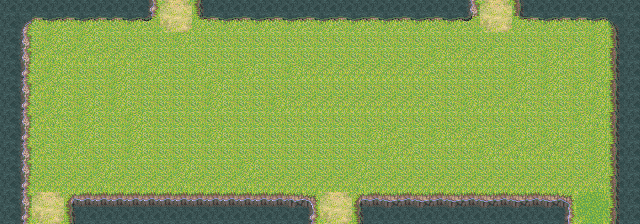
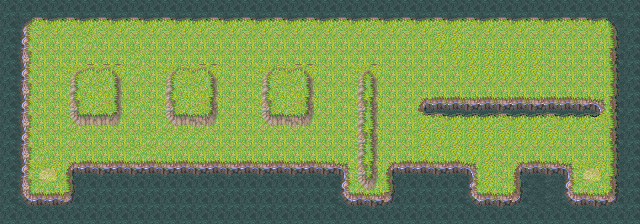
Elf game pixel perfect col. detection
FINALLY !

diff --git a/js/elf-vs-dwarf-game/elfGame.js b/js/elf-vs-dwarf-game/elfGame.js
@@ -97,13 +97,13 @@ RadoGame = Game.extend({
 		this.levels.push(this.createLevel(
 				1,
 				'source/elf game/level1.png',
-				[[0, 0, 0, 0, 0, 1, 0, 0, 0, 0, 0, 0, 0, 0, 0, 1, 0, 0, 0, 0],		// 0 - impassable,
+				[[0, 0, 0, 0, 0, 0, 0, 0, 0, 0, 0, 0, 0, 0, 0, 0, 0, 0, 0, 0],		// 0 - impassable,
                  [0, 1, 1, 1, 1, 1, 1, 1, 1, 1, 1, 1, 1, 1, 1, 1, 1, 1, 1, 0],		// 1 - passable,
-                 [0, 1, 1, 1, 1, 1, 1, 1, 1, 1, 1, 1, 1, 1, 1, 1, 1, 1, 1, 0],		// 2 - finish,
-                 [0, 1, 1, 1, 1, 1, 1, 1, 1, 1, 1, 1, 1, 1, 1, 1, 1, 1, 1, 0],		// 3 - starting 
-                 [0, 1, 1, 1, 1, 1, 1, 1, 1, 1, 1, 1, 1, 1, 1, 1, 1, 1, 1, 0],
-                 [0, 1, 1, 1, 1, 1, 1, 1, 1, 1, 1, 1, 1, 1, 1, 1, 1, 1, 1, 0],
-                 [0, 3, 0, 0, 0, 0, 0, 0, 0, 0, 1, 0, 0, 0, 0, 0, 0, 0, 2, 0]]
+                 [0, 1, 0, 0, 1, 0, 0, 1, 0, 0, 1, 0, 1, 1, 1, 1, 1, 1, 1, 0],		// 2 - finish,
+                 [0, 1, 0, 0, 1, 0, 0, 1, 0, 0, 1, 0, 1, 0, 0, 0, 0, 0, 0, 0],		// 3 - starting 
+                 [0, 1, 1, 1, 1, 1, 1, 1, 1, 1, 1, 0, 1, 1, 1, 1, 1, 1, 1, 0],
+                 [0, 3, 0, 0, 0, 0, 0, 0, 0, 0, 0, 0, 0, 0, 0, 1, 0, 0, 1, 0],
+                 [0, 0, 0, 0, 0, 0, 0, 0, 0, 0, 0, 0, 0, 0, 0, 0, 0, 0, 0, 0]]
 				)
 		);
 		
@@ -214,7 +214,7 @@ RadoGame = Game.extend({
 		
 		this.gameContext.drawImage(this.currentLevel.image, 0, 0);
 		
-/*		for(var i = 0; i < this.passableBlocks.length; i++){
+		for(var i = 0; i < this.passableBlocks.length; i++){
 			var temp = this.passableBlocks[i];
 			
 			if (temp.isActive){
@@ -230,12 +230,13 @@ RadoGame = Game.extend({
 		for(var j = 0; j < this.impassableBlocks.length; j++){
 			var temp = this.impassableBlocks[j];
 			this.gameContext.fillRect(temp.x, temp.y, temp.width, temp.height);
-		}*/
+		}
 		for(var k = 0; k < this.finishBlocks.length; k++){
 			var temp = this.finishBlocks[k];
 			this.gameContext.fillStyle = 'rgba(89, 49, 143, 0.3)';
 			this.gameContext.fillRect(temp.x, temp.y, temp.width, temp.height);
 		}
+		
 	},
 	
 	// ====== MAIN CHARACTER CONSTRUCTOR ===== //
@@ -255,7 +256,7 @@ RadoGame = Game.extend({
 		};
 		
 		this.mainCharacterBoundingRect = {
-				x: this.mainCharacter.x + 4,
+				x: this.mainCharacter.x + 6,
 				y: this.mainCharacter.y + 28,
 				width: 20,
 				height: 8
@@ -333,25 +334,27 @@ RadoGame = Game.extend({
 			
 			// ----- linear collision detection ----- //
 			
-			if(right && right.type == 0){
-				if(charBox.x + charBox.width > temp.x + temp.width){
-					collision.right = true;
+			if(len != 3){
+				if(right && right.type == 0){
+					if(charBox.x + charBox.width > temp.x + temp.width){
+						collision.right = true;
+					}
 				}
-			}
-			if(lower && lower.type == 0){
-				if(charBox.y + charBox.height > temp.y + temp.height){
-					collision.bottom = true;		
+				if(lower && lower.type == 0){
+					if(charBox.y + charBox.height > temp.y + temp.height){
+						collision.bottom = true;		
+					}
 				}
-			}
-			if(left && left.type == 0){
-				if(charBox.x < temp.x){
-					collision.left = true;
+				if(left && left.type == 0){
+					if(charBox.x < temp.x){
+						collision.left = true;
+					}
 				}
-			}
-			if(upper && upper.type == 0){
-				if(charBox.y < temp.y){
-					collision.top = true;
-				}
+				if(upper && upper.type == 0){
+					if(charBox.y < temp.y){
+						collision.top = true;
+					}
+				}				
 			}
 			
 			// ==== diagonal collision detection ==== //
@@ -367,15 +370,20 @@ RadoGame = Game.extend({
 							charBox.y += offsetY;
 							break;
 						}
-						if(offsetY > offsetX){
+						else if(offsetY > offsetX){
 							char.x += offsetX;
 							charBox.x += offsetX;
 							break;
 						}
-						if(offsetY == offsetX){
-							char.x += offsetX;
-							charBox.x += offsetX;
-							break;
+						else if(offsetY == offsetX){
+							if(char.moveLeft == true){
+								char.y += offsetY;
+								charBox.y += offsetY;
+							}
+							else if(char.moveUp == true){
+								char.x += offsetX;
+								charBox.x += offsetX;
+							}
 						}
 					}
 				}         
@@ -388,19 +396,24 @@ RadoGame = Game.extend({
 						offsetY = (upperRight.y + upperRight.height) - charBox.y;
 						
 						if(offsetX > offsetY){
-							char.y += offsetY + char.speed;
-							charBox.y += offsetY + char.speed;
+							char.y += offsetY;
+							charBox.y += offsetY;
 							break;
 						}
-						if(offsetY > offsetX){
+						else if(offsetY > offsetX){
 							char.x -= offsetX;
 							charBox.x -= offsetX;
 							break;
 						}
-						if(offsetY == offsetX){
-							char.y -= offsetY;
-							charBox.y -= offsetY;
-							break;
+						else if(offsetY == offsetX){
+							if(char.moveRight == true){
+								char.y += offsetY;
+								charBox.y += offsetY;
+							}
+							else if(char.moveUp == true){
+								char.x -= offsetX;
+								charBox.x -= offsetX;
+							}
 						}
 					}
 				}
@@ -411,22 +424,26 @@ RadoGame = Game.extend({
 					if(len == 3){
 						offsetX = (lowerLeft.x + lowerLeft.width) - charBox.x;
 						offsetY = (charBox.y + charBox.height) - lowerLeft.y;
-						
-						console.log("X: " + offsetX + " Y: " + offsetY);						
+												
 						if(offsetX > offsetY){
 							char.y -= offsetY;
 							charBox.y -= offsetY;
 							break;
 						}
 						if(offsetY > offsetX){
-							char.x += offsetX + char.speed;
-							charBox.x += offsetX + char.speed;
+							char.x += offsetX;
+							charBox.x += offsetX;
 							break;
 						}
 						if(offsetX == offsetY){
-							char.x += offsetX + char.speed;
-							charBox.x += offsetX + char.speed;
-							break;
+							if(char.moveLeft == true){
+								char.y -= offsetY;
+								charBox.y -= offsetY;
+							}
+							else if(char.moveDown == true){
+								char.x += offsetX;
+								charBox.x += offsetX;
+							}
 						}
 					}
 				}
@@ -444,14 +461,19 @@ RadoGame = Game.extend({
 							break;
 						}
 						if(offsetY > offsetX){
-							char.x -= offsetX + char.speed;
-							charBox.x -= offsetX + char.speed;
+							char.x -= offsetX;
+							charBox.x -= offsetX;
 							break;
 						}
 						if(offsetX == offsetY){
-							char.x -= offsetX + char.speed;
-							charBox.x -= offsetX + char.speed;
-							break;
+							if(char.moveRight == true){
+								char.y -= offsetY;
+								charBox.y -= offsetY;
+							}
+							else if(char.moveDown == true){
+								char.x -= offsetX;
+								charBox.x -= offsetX;
+							}
 						}
 					}
 				}
@@ -468,6 +490,8 @@ RadoGame = Game.extend({
 		var char = this.mainCharacter,
 			charBox = this.mainCharacterBoundingRect;
 
+		//this.gameContext.fillRect(this.mainCharacterBoundingRect.x, this.mainCharacterBoundingRect.y, this.mainCharacterBoundingRect.width, this.mainCharacterBoundingRect.height);
+		
 		if(char.moveUp == true){
 			if(char.moveLeft == true){
 				char.spriteLeft.drawSprite();
@@ -569,6 +593,7 @@ RadoGame = Game.extend({
 		if(!char.isMoving){
 			char.spriteIdle.drawSprite();
 		}
+		
 	},
 	
 	// ======== CHECK IF OVERLAPPING METHOD =========== //
